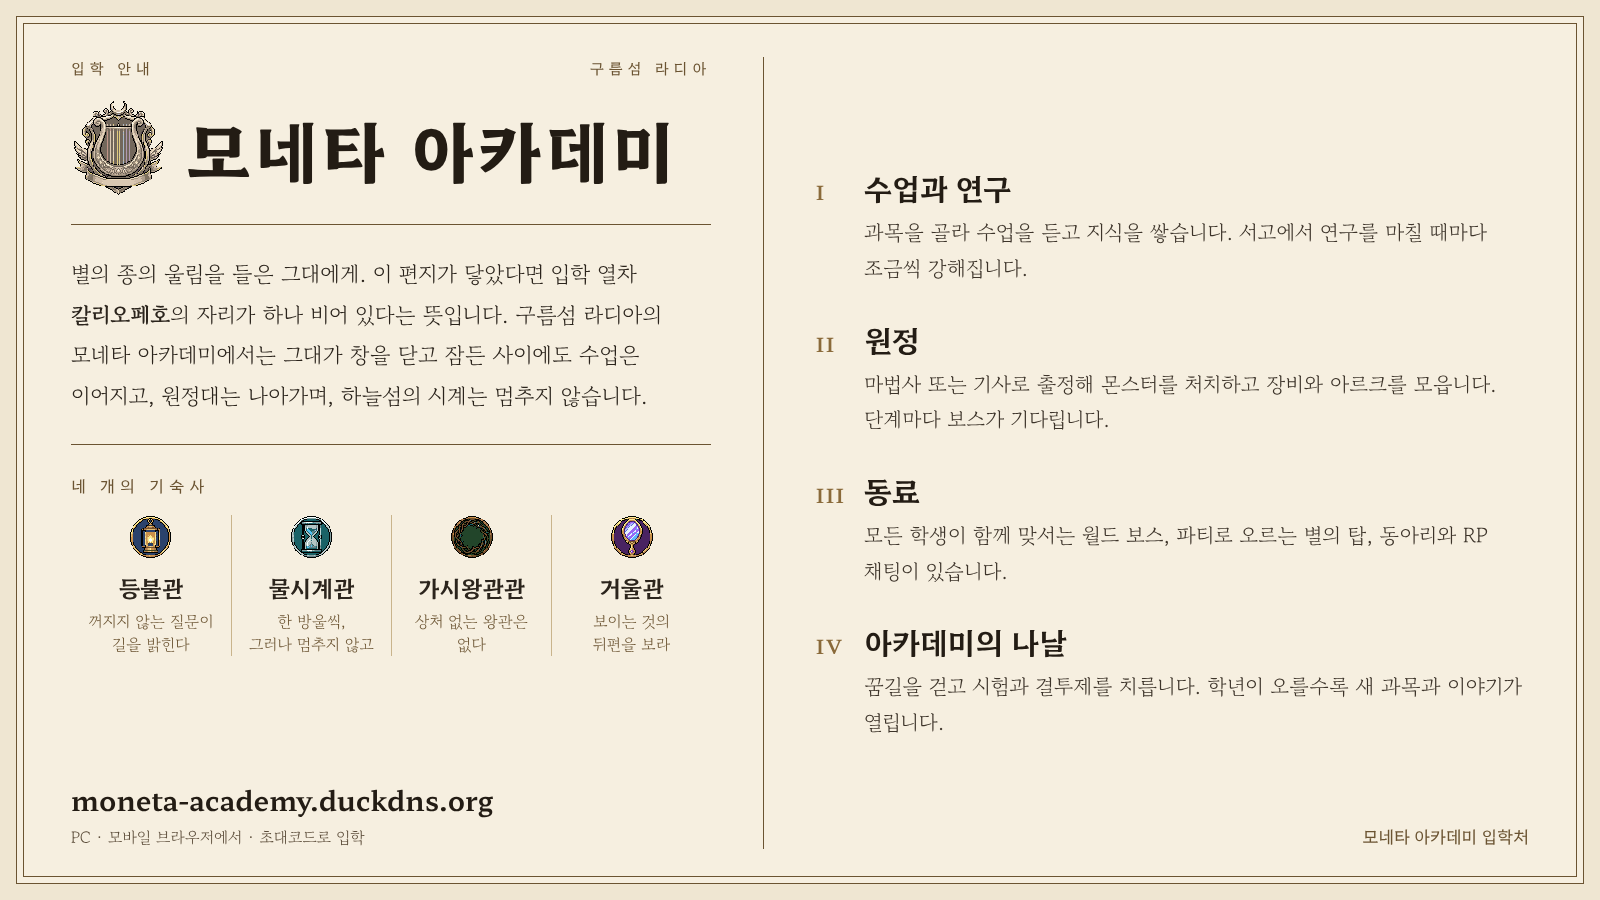
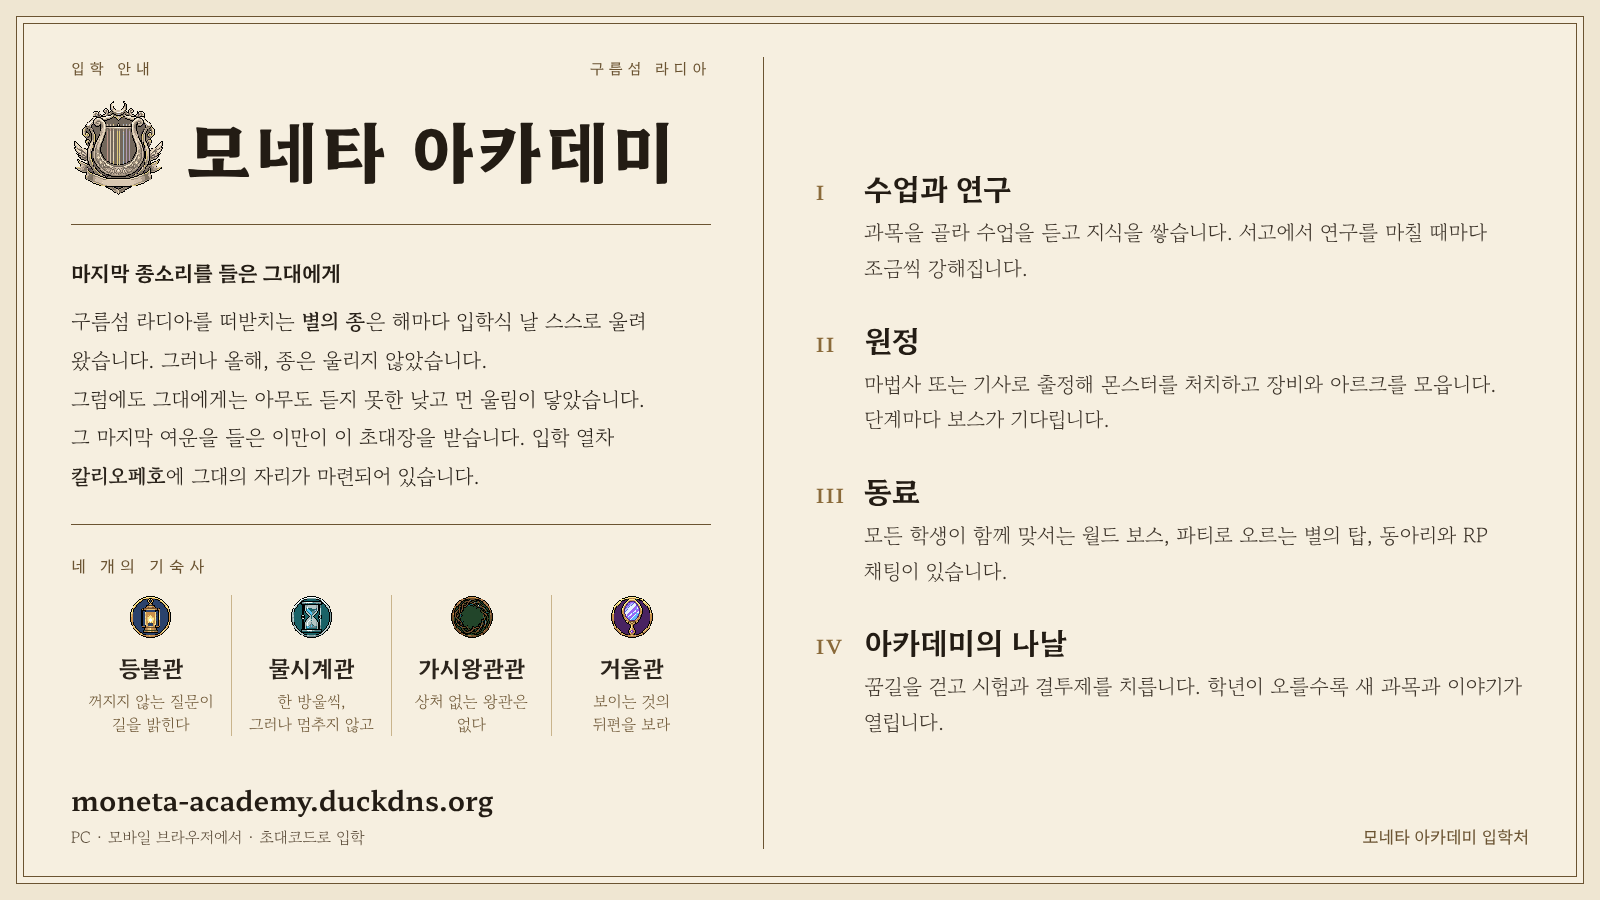
소개 이미지: 울리지 않은 별의 종 · 마지막 여운을 들은 이에게 보내는 초대로
Claude-Session: https://claude.ai/code/session_01DrLwNTvEiJ85PeDgrBabhU

diff --git a/docs/promo/intro_wide.tpl.html b/docs/promo/intro_wide.tpl.html
@@ -11,8 +11,9 @@ body{padding:16px;background:#efe6d2;color:#2b241c;font-family:'Gowun Batang',se
 .head img{width:96px;height:96px;image-rendering:pixelated}
 h1{font-family:'Hahmlet',serif;font-weight:700;font-size:68px;letter-spacing:.06em;color:#231c14;line-height:1}
 hr{border:0;border-top:1px solid #6b5432;margin:28px 0}
-.letter{font-size:22px;line-height:1.85;word-break:keep-all}
+.letter{font-size:21px;line-height:1.85;word-break:keep-all}
 .letter b{font-weight:700}
+.letter .to{display:block;font-family:'Hahmlet',serif;font-weight:600;margin-bottom:10px;color:#231c14}
 .cap{font-family:'Hahmlet',serif;font-size:16px;letter-spacing:.32em;color:#6b5432;margin-bottom:18px}
 .houses{display:grid;grid-template-columns:repeat(4,1fr);text-align:center}
 .houses div{padding:0 6px;border-left:1px solid #c9b48c}
@@ -33,7 +34,7 @@ hr{border:0;border-top:1px solid #6b5432;margin:28px 0}
  <div class="top"><span>입학 안내</span><span>구름섬 라디아</span></div>
  <div class="head"><img src="{{logo}}" alt=""><h1>모네타 아카데미</h1></div>
  <hr>
- <p class="letter">별의 종의 울림을 들은 그대에게. 이 편지가 닿았다면 입학 열차 <b>칼리오페호</b>의 자리가 하나 비어 있다는 뜻입니다. 구름섬 라디아의 모네타 아카데미에서는 그대가 창을 닫고 잠든 사이에도 수업은 이어지고, 원정대는 나아가며, 하늘섬의 시계는 멈추지 않습니다.</p>
+ <p class="letter"><span class="to">마지막 종소리를 들은 그대에게</span>구름섬 라디아를 떠받치는 <b>별의 종</b>은 해마다 입학식 날 스스로 울려 왔습니다. 그러나 올해, 종은 울리지 않았습니다.<br>그럼에도 그대에게는 아무도 듣지 못한 낮고 먼 울림이 닿았습니다. 그&nbsp;마지막 여운을 들은 이만이 이 초대장을 받습니다. 입학&nbsp;열차 <b>칼리오페호</b>에 그대의 자리가 마련되어 있습니다.</p>
  <hr>
  <div class="cap">네 개의 기숙사</div>
  <div class="houses">

diff --git a/docs/promo/intro.tpl.html b/docs/promo/intro.tpl.html
@@ -13,6 +13,7 @@ hr{border:0;border-top:1px solid #6b5432;margin:38px 0}
 hr.d{border-top:1px solid #6b5432;position:relative;overflow:visible}
 .letter{font-size:23px;line-height:1.9;text-align:left;word-break:keep-all}
 .letter b{font-weight:700}
+.letter .to{display:block;font-family:'Hahmlet',serif;font-weight:600;margin-bottom:10px;color:#231c14}
 .cols{display:flex;flex-direction:column;gap:26px}
 .item h2{font-family:'Hahmlet',serif;font-weight:600;font-size:27px;color:#231c14;display:flex;gap:14px;align-items:baseline}
 .item h2 i{font-style:normal;font-size:19px;color:#8a6a3a;letter-spacing:.1em;min-width:28px}
@@ -34,7 +35,7 @@ hr.d{border-top:1px solid #6b5432;position:relative;overflow:visible}
 <div class="seal"><img src="{{logo}}" alt=""></div>
 <h1>모네타 아카데미</h1>
 <hr>
-<p class="letter">별의 종의 울림을 들은 그대에게. 이 편지가 닿았다면 입학 열차 <b>칼리오페호</b>의 자리가 하나 비어 있다는 뜻입니다. 구름섬 라디아의 모네타 아카데미에서는 그대가 창을 닫고 잠든 사이에도 수업은 이어지고, 원정대는 나아가며, 하늘섬의 시계는 멈추지 않습니다.</p>
+<p class="letter"><span class="to">마지막 종소리를 들은 그대에게</span>구름섬 라디아를 떠받치는 <b>별의 종</b>은 해마다 입학식 날 스스로 울려 왔습니다. 그러나 올해, 종은 울리지 않았습니다.<br>그럼에도 그대에게는 아무도 듣지 못한 낮고 먼 울림이 닿았습니다. 그&nbsp;마지막 여운을 들은 이만이 이 초대장을 받습니다. 입학&nbsp;열차 <b>칼리오페호</b>에 그대의 자리가 마련되어 있습니다.</p>
 <hr>
 <div class="cols">
  <div class="item"><h2><i>I</i>수업과 연구</h2><p>과목을 골라 수업을 듣고 지식을 쌓습니다. 서고에서 연구를 마칠 때마다 조금씩 강해집니다.</p></div>

diff --git a/docs/promo/README.md b/docs/promo/README.md
@@ -1,5 +1,5 @@
 # 소개 이미지
 
-- `moneta-intro.png` — 게임을 처음 소개하는 한 장짜리 이미지 (1080×1660, 입학 안내문 형식)
+- `moneta-intro.png` — 게임을 처음 소개하는 한 장짜리 이미지 (1080×1720, 입학 안내문 형식)
 - `intro.tpl.html` — 원본. `{{키}}` 자리에 `public/app.js`의 `DOT_IMG` 그림(`logo`는 `public/logo.png`)을 data URI로 넣어 브라우저로 렌더링해 캡처한다.
 - `moneta-intro-wide.png` — 트위터용 가로 이미지 (1600×900, 16:9). 원본 `intro_wide.tpl.html`
